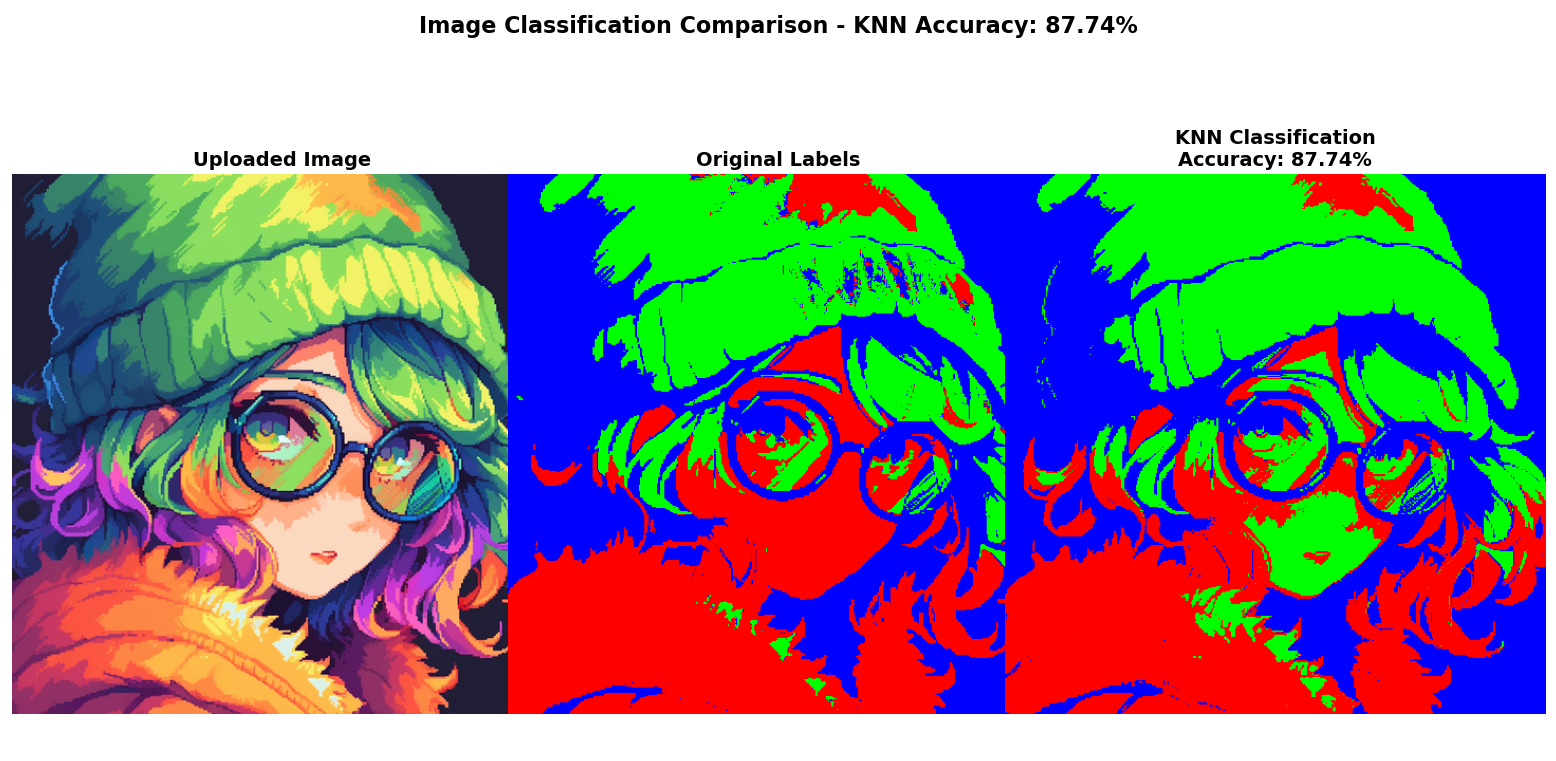
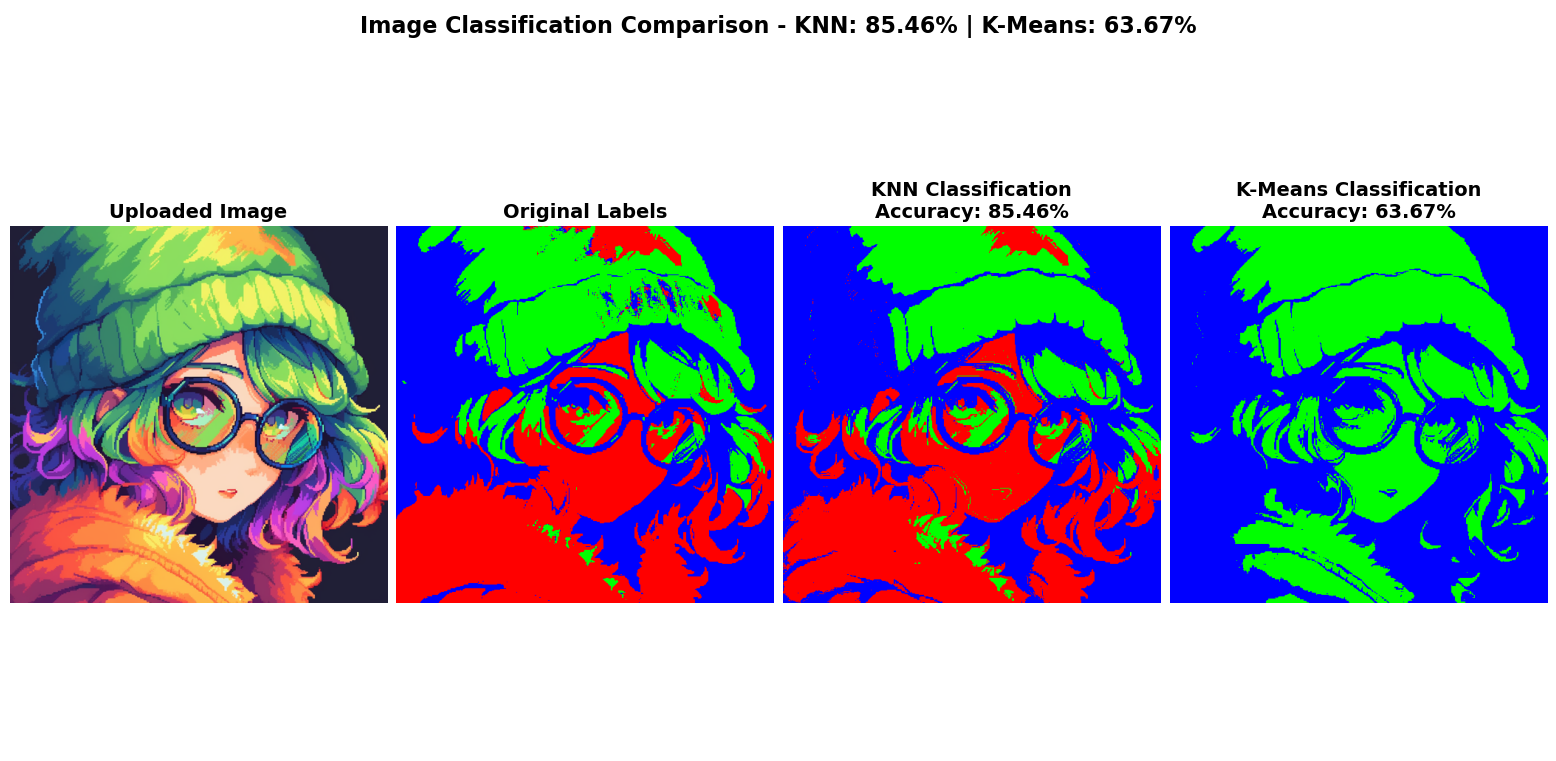
minor tweaks

diff --git a/Knn-Vs-Kmeans.py b/Knn-Vs-Kmeans.py
@@ -114,12 +114,12 @@ class k_means:
 
     def fit(self, pixels, max_iterations=10):
         # Step 1: select random centroids
-        self.centroids = creat_training_set(pixels, self.k)
+        self.centroids = random.sample(pixels, self.k)
 
         # Step 2: calculate the distance centroids and each point
         for iteration in range(max_iterations):
-            # clusters = [[] for _ in range(self.k)]
-            clusters = []
+            clusters = [[] for _ in range(self.k)]
+            # clusters = []
             for pixel in pixels:
                 distances = [
                     distance_manhattan(pixel, centroid) for centroid in self.centroids
@@ -223,7 +223,7 @@ def show_comparison(
 
 def main():
     TRAIN_SIZE = 15
-    IMG_PATH = "Images/nature.jpg"
+    IMG_PATH = "Images/cool-pfp-1300.png"
     K_MEANS = 3
     K_NN = 5
 

diff --git a/README.md b/README.md
@@ -12,10 +12,10 @@ Supervisor: M. TAFFAR
 This project implements a K-Nearest Neighbors (KNN) classifier to segment images based on RGB color values. Each pixel is classified into one of three categories: red, green, or blue, based on its dominant color component.
 
 ## Test Results
-### K-Nearest Neighbors
-K = 5
-train size: random 15 pixels
-![resutls of K-Nearest Neighbors](Images/result/Figure_1.png)
+![resutls](Images/result/Figure_1.png)
+
+![resutls](Images/result/Figure_2.png)
+![resutls](Images/result/Figure_3.png)
 
 ## Usage
 ### Clone
